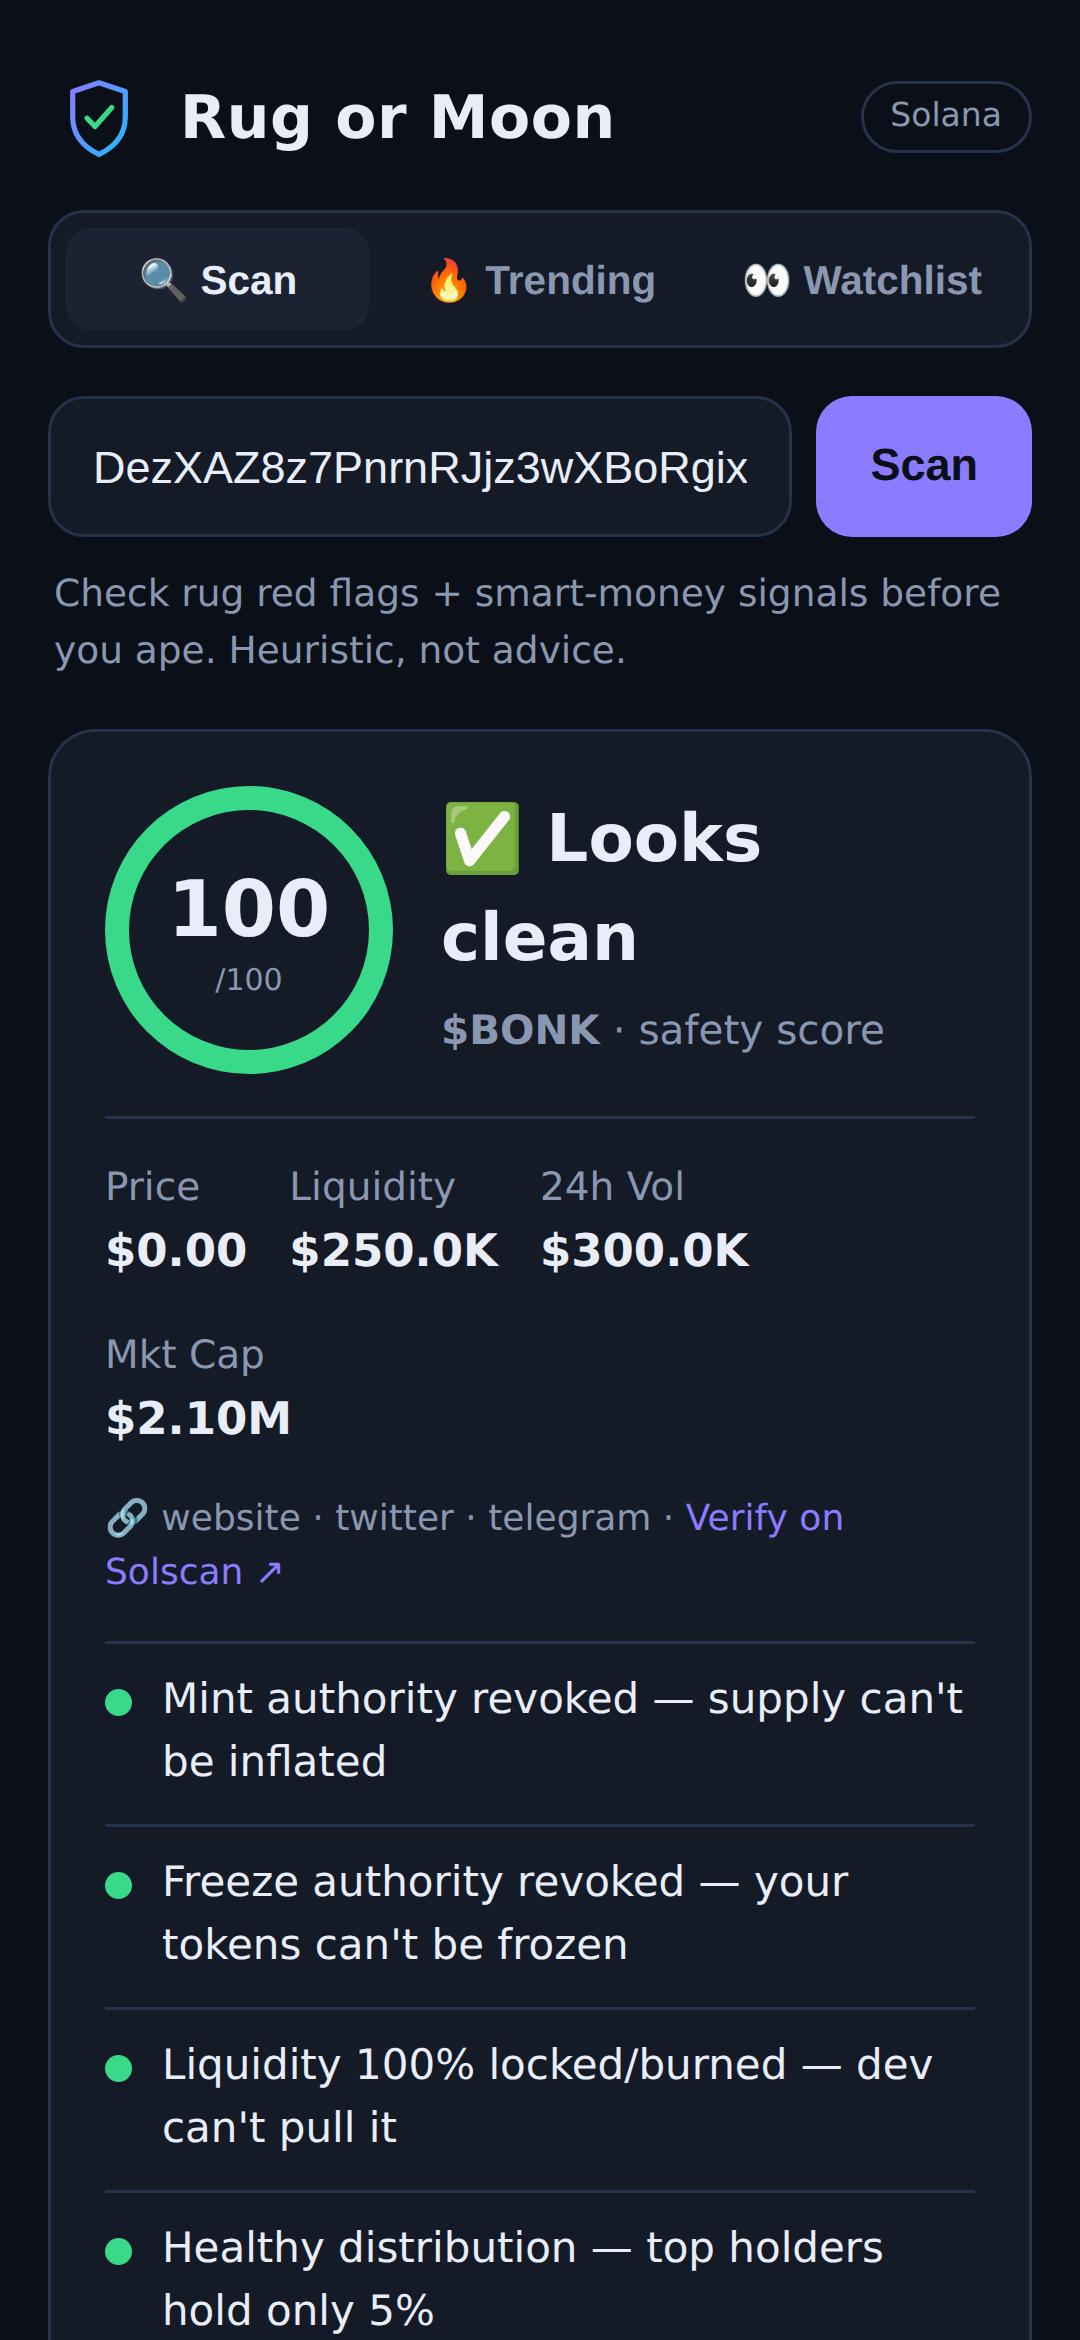
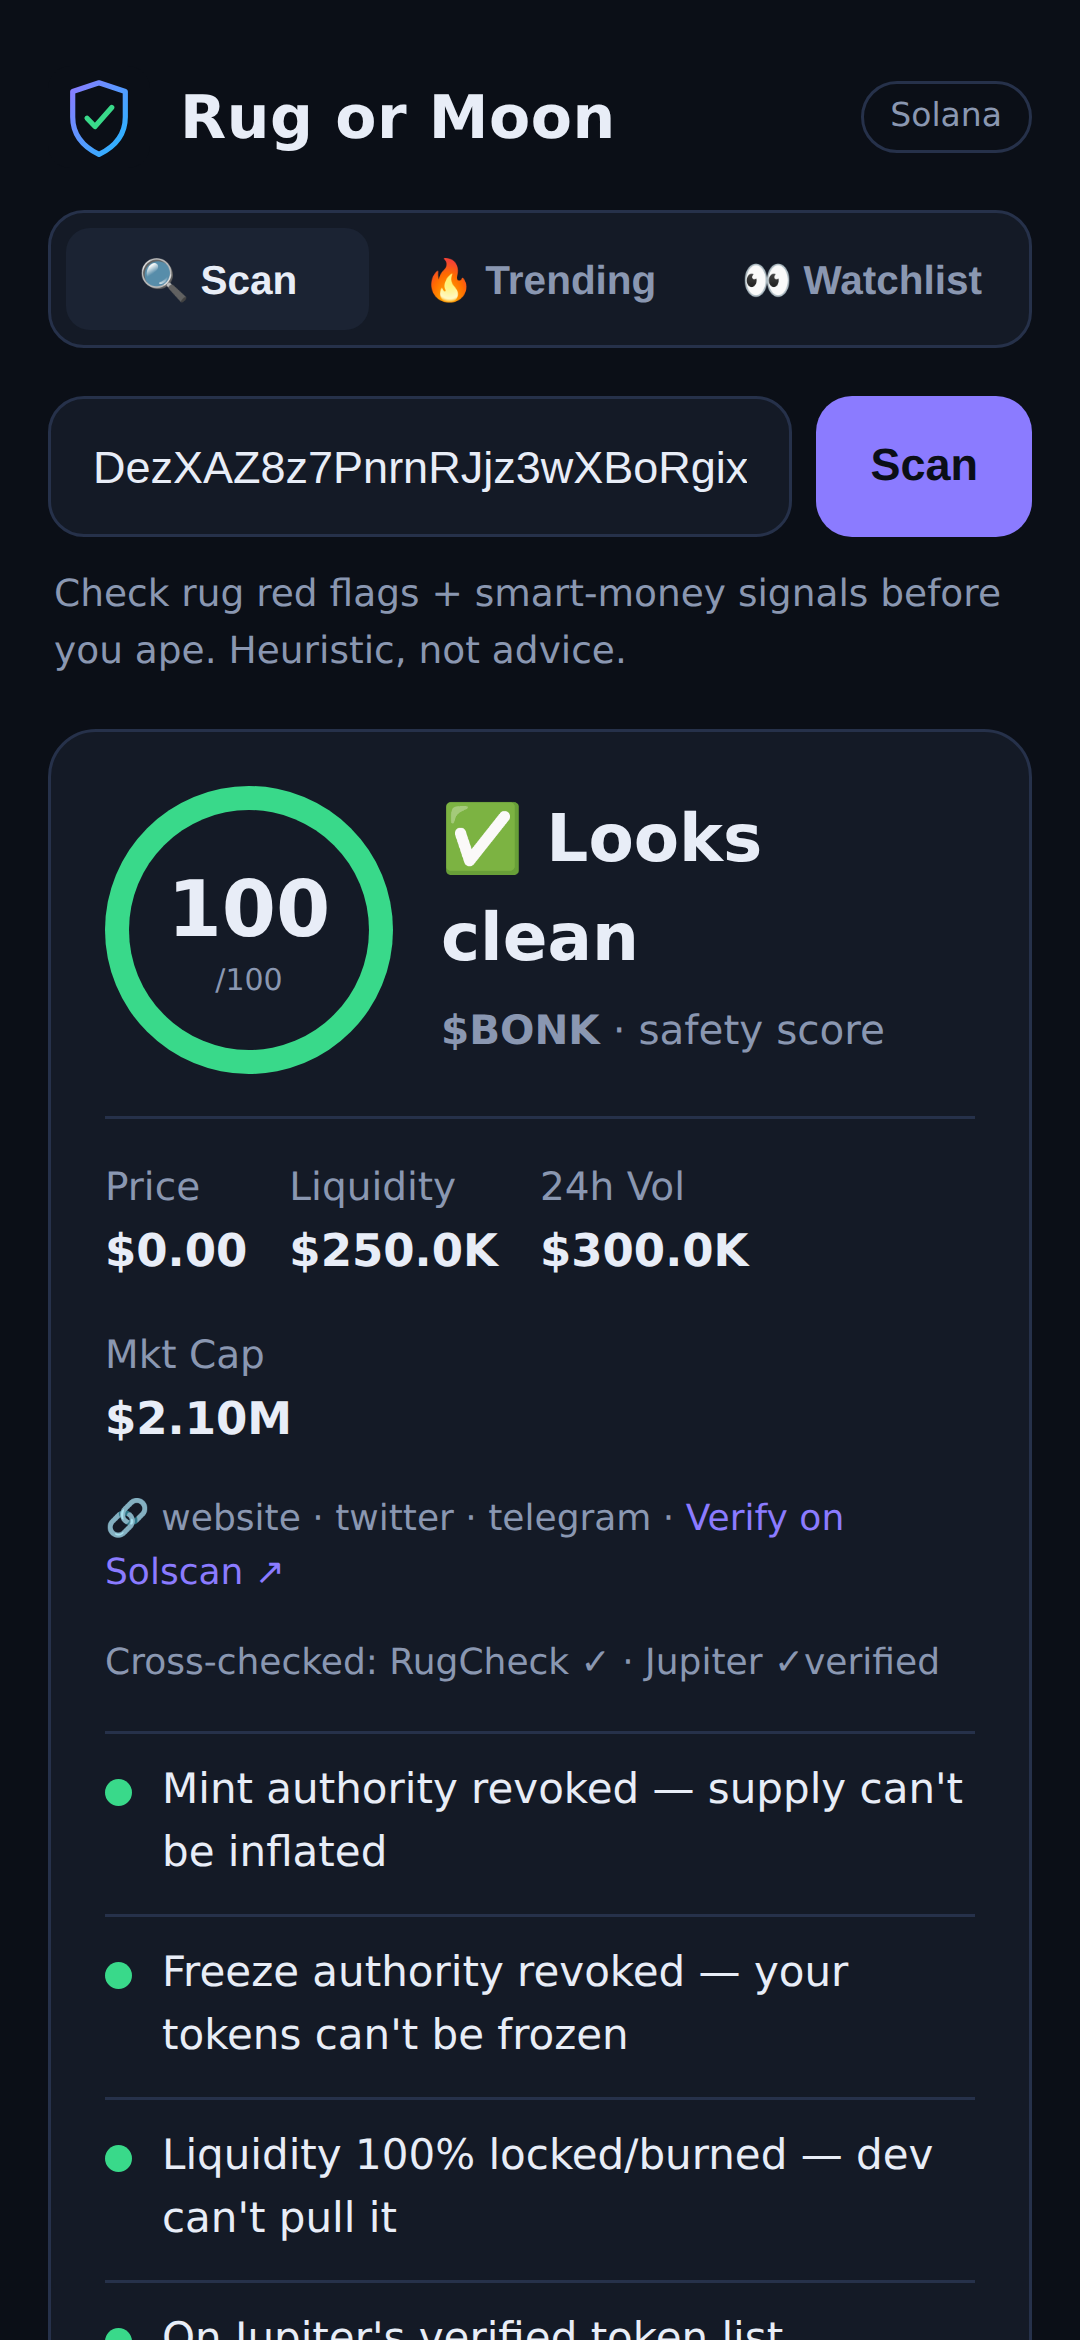
Rug or Moon: keyless data upgrades — organic trending + cross-checks
Three free/keyless integrations that sharpen the data and the trust:

- GeckoTerminal organic trending (api/trending.mjs): Trending now prefers
  genuine volume-trending pools over DexScreener's PAID boosts (a safety app
  showing paid promos was an own-goal). Order: Birdeye → GeckoTerminal →
  boosts. scanTrending now reports which source it used.
- Jupiter verified flag (api/scan.mjs): is the token on Jupiter's verified
  list? Surfaced as a green legitimacy signal. Absence is never a penalty.
- GoPlus second opinion (api/scan.mjs): an independent security scanner
  cross-check. If GoPlus flags danger our own checks missed, we add a yellow
  "second opinion" flag and cap the tier — strictly additive caution.

The result carries a `sources` summary and the UI shows a "Cross-checked:
RugCheck · GoPlus · Jupiter" trust line. All external calls fan out in
parallel and fail silently; none can ever certify safety. Coded to each API's
documented schema — GoPlus/Jupiter fields need a live sanity check after
deploy (documented).

Tests cover verified/GoPlus-danger/GoPlus-trusted + the new trending source
tiers; smoke asserts the cross-checked line. All 5 suites + smoke green.

Claude-Session: https://claude.ai/code/session_01P4YdgycSQey1q4cuRtSLa3

Changed region(s): [[0.0917, 0.6863, 0.8861, 1.0]]

diff --git a/rug-or-moon/index.html b/rug-or-moon/index.html
@@ -290,6 +290,11 @@ function renderScan(d, token){
   if (w.length) linkParts.push("🔗 website");
   soc.slice(0,3).forEach(t=>linkParts.push(esc(t)));
   const links = `<p class="links">${linkParts.length?linkParts.join(" · "):`<span class="nolink">No website or socials listed</span>`} · <a href="https://solscan.io/token/${encodeURIComponent(token)}" target="_blank" rel="noopener">Verify on Solscan ↗</a></p>`;
+  // Cross-checked against independent scanners — a trust signal.
+  const src = d.sources||{};
+  const chip = (name,st)=> !st||st==="na" ? "" : `${name} ${st==="flag"?"⚠":st==="verified"?"✓verified":"✓"}`;
+  const srcLine = [chip("RugCheck",src.rugcheck),chip("GoPlus",src.goplus),chip("Jupiter",src.jupiter)].filter(Boolean).join(" · ");
+  const xcheck = srcLine ? `<p class="links">Cross-checked: ${srcLine}</p>` : "";
   out.innerHTML = `
     <div class="card">
       <div class="verdict">
@@ -306,6 +311,7 @@ function renderScan(d, token){
         <div>Mkt Cap<b>${usd(m.mcap)}</b></div>
       </div>`:""}
       ${links}
+      ${xcheck}
       ${!d.dataComplete?`<p class="warn">⚠ Couldn't read the on-chain authorities (no RPC key or a temporary RPC error) — this verdict is capped at "caution" until they can be verified.</p>`:""}
       <ul class="flags">${flags||`<li class="yellow"><span class="dot"></span><span>Not enough data to assess.</span></li>`}</ul>
       <div class="alpha">

diff --git a/rug-or-moon/README.md b/rug-or-moon/README.md
@@ -39,16 +39,20 @@ signals** (smart money holding, buy/sell momentum) — the "should I ape?" check
   market data) + Solana RPC via Helius (mint authorities + top holders,
   server-side so the key never reaches the client) and returns a scored result.
 - **`api/trending.mjs`** — gathers today's trending mints (Birdeye if
-  `BIRDEYE_API_KEY` is set, else DexScreener's keyless boosted list) and runs each
-  through the same `scanToken()` pipeline, returning a gems→rugs board.
+  `BIRDEYE_API_KEY` is set → **GeckoTerminal** organic volume-trending, keyless →
+  DexScreener boosts as last resort) and runs each through the same `scanToken()`
+  pipeline, returning a gems→rugs board.
 - **`api/share.mjs`** — per-token Open Graph page so a pasted scan link unfurls
   the verdict in chat apps, then redirects humans into the app.
-- **LP-lock via RugCheck** — `api/scan.mjs` also calls RugCheck's keyless public
-  API (`api.rugcheck.xyz`) for the one thing we can't compute cheaply ourselves:
-  what % of the liquidity is locked/burned. Best-effort — if it's unavailable, no
-  signal is invented. Coded to RugCheck's documented schema; **sanity-check the
-  `lpLockedPct` against one real token after deploy** (it couldn't be verified
-  against live pools in the build sandbox).
+- **Keyless cross-checks** — `api/scan.mjs` fans out (in parallel, degrading
+  silently) to independent public APIs so the verdict is harder to fool:
+  **RugCheck** (`api.rugcheck.xyz`) for LP locked/burned % + rugged status;
+  **GoPlus** (`api.gopluslabs.io`) as a second security opinion; **Jupiter**
+  (`tokens.jup.ag`) for a verified-list legitimacy flag. External signals can
+  only ADD caution or reassurance, never certify safety. The UI shows a
+  "Cross-checked: …" line. Coded to each API's documented schema; **sanity-check
+  `lpLockedPct` and the GoPlus fields against one real token after deploy** (they
+  couldn't be verified against live data in the build sandbox).
 - **`scoring.mjs`** — the pure, tested scoring engine (shared by the API + tests).
 - **`watchlist.mjs`** — the pure, tested diff/alert + freemium logic (what counts
   as an alert-worthy change between two scans). The UI mirrors it client-side.
